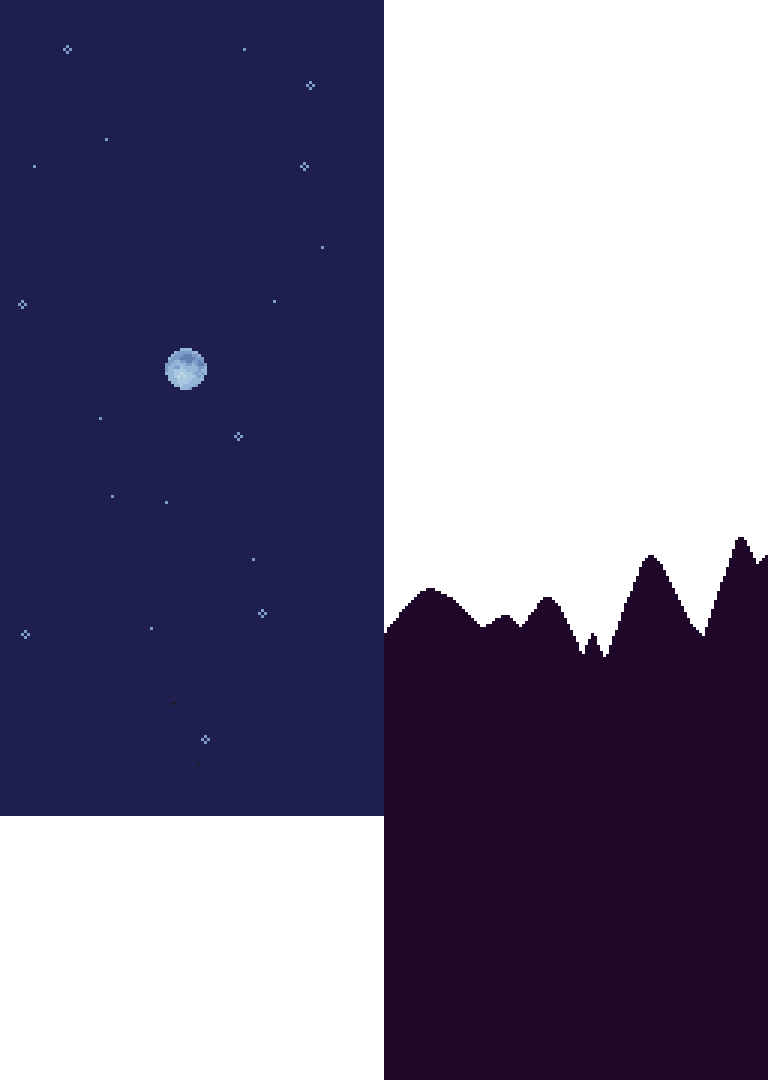
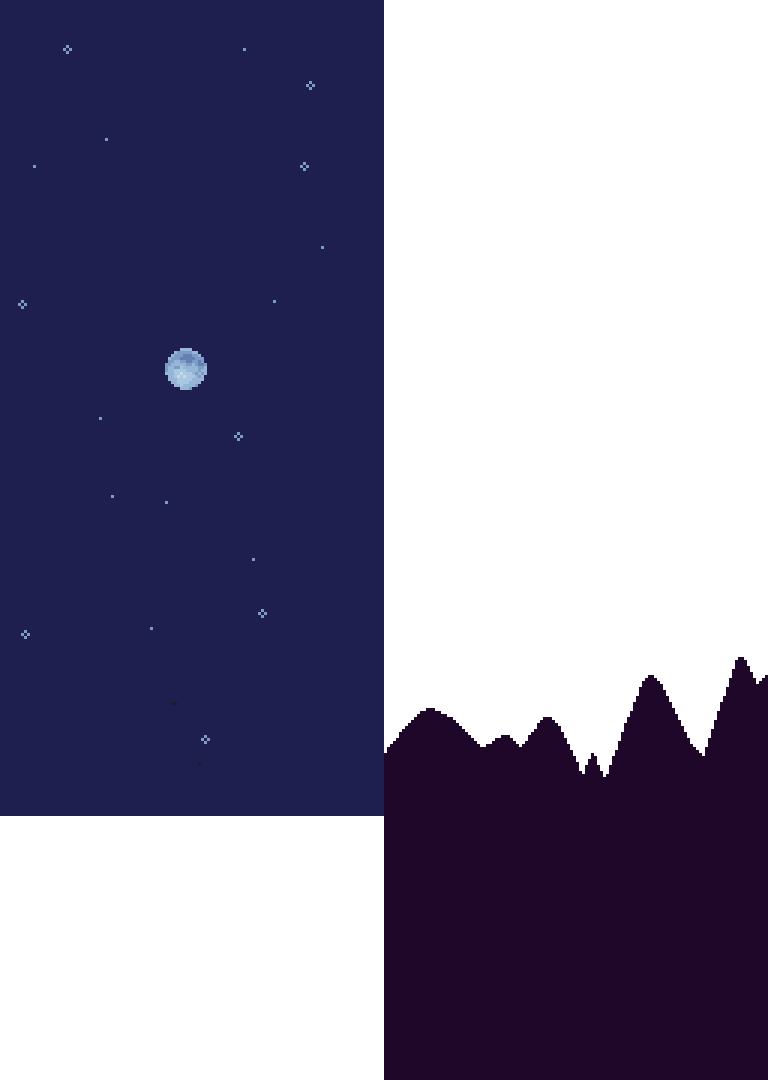
코루틴(준비 중), 배경 스크롤, 키보드 => 커맨드 패턴 추가

Changed region(s): [[0.5, 0.4889, 1.0, 0.7333]]

diff --git a/include/NotePad.h b/include/NotePad.h
@@ -1,7 +1,7 @@
 #pragma once
 #include <Collider2D.h>
+#include <cstdarg>
 
-//need for A+_notesPad
 class NotePad : public SDLGameObject, public ICLICK
 {
 private:
@@ -12,12 +12,13 @@ private:
 
 	Collider2D collision = Collider2D(m_position.getX(), m_position.getY(), m_width, m_height);
 	GameObject* EntergameObject;
+	vector<NotePad*> otherPads; //PowerNotePad
 
 	Vector2D playerPos = Vector2D(635.5f, 750);
+
 	void OffNote();
-	//SpecialNotesPad
 public:
-	NotePad(const LoaderParams* pParams, string noteTag);
+	NotePad(const LoaderParams* pParams, string thisTag, string noteTag);
 	virtual void draw() { SDLGameObject::draw(); }
 	virtual void update();
 	virtual void clean() {}
@@ -25,7 +26,6 @@ public:
 	void SetPosition(Vector2D getPos) override;
 	void DetectCollider();
 
-	//Interface
 	void PressIn(bool);
 	void PressOut(bool);
 	void IsPressed(bool _isPush) { PressIn(_isPush); }

diff --git a/src/Animation/BackScroll.cpp b/src/Animation/BackScroll.cpp
@@ -1,1 +1,30 @@
 #include <BackScroll.h>
+#include <Game.h>
+
+BackScroll::BackScroll(const LoaderParams* pParams, SDLGameObject* backFrame, SDLGameObject* backFrame1, SDLGameObject* backFrame2) : SDLGameObject(pParams)
+{
+	middle = backFrame->getWidth() / static_cast<float>(3) * -2;
+
+	backFrame->SetPosition(Vector2D(middle, 340));
+	backFrame1->SetPosition(Vector2D(middle, 420));
+	backFrame2->SetPosition(Vector2D(middle, 300));
+
+	backs.emplace_back(backFrame);
+	backs.emplace_back(backFrame1);
+	backs.emplace_back(backFrame2);
+}
+
+void BackScroll::Scroll()
+{
+	for (int i = 0; i < backs.size(); i++)
+	{
+		Vector2D MovePos = backs[i]->GetPosition();
+		MovePos.setX(MovePos.getX() + speed[i]);
+
+		if (MovePos.getX() > 0)
+		{
+			MovePos.setX(middle);
+		}
+		backs[i]->SetPosition(MovePos);
+	}
+}

diff --git a/src/UI/HealthBar.cpp b/src/UI/HealthBar.cpp
@@ -14,7 +14,12 @@ HealthBar::HealthBar(const LoaderParams* pParams, string getTag, int frameCount)
 void HealthBar::draw()
 {
 	if (!onOff) return;
-	animation->Draw(m_position.getX(), m_position.getY(), m_width, m_height, Game::GetInstance()->GetHp());
+
+	int damaged = 0;
+	if (tag == "HpBar") damaged = Game::GetInstance()->GetHp();
+	else damaged= Game::GetInstance()->GetEnergy();
+
+	animation->Draw(m_position.getX(), m_position.getY(), m_width, m_height, damaged);
 }
 void HealthBar::update()
 {

diff --git a/include/SDLGameObject.h b/include/SDLGameObject.h
@@ -9,9 +9,11 @@ public:
 };
 class ICLICK
 {
-public:
 	virtual void IsPressed(bool _isPush) = 0;
+	virtual void PressIn(bool) = 0;
+	virtual void PressOut(bool) = 0;
 };
+
 class SDLGameObject : public GameObject {
 public:
 	SDLGameObject(const LoaderParams* pParams);
